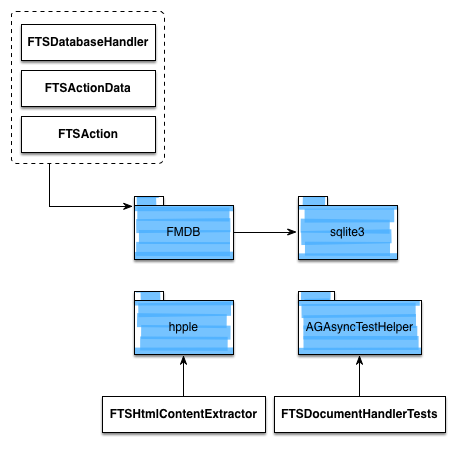
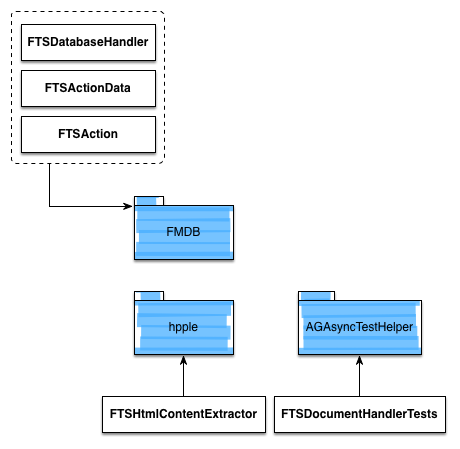
adapt Podfile definition for new CocoaPods Version 0.34.4

Changed region(s): [[0.6087, 0.4365, 0.8826, 0.5924]]

diff --git a/README.md b/README.md
@@ -51,7 +51,6 @@ Now you are ready to run the project.
 1. Copy everything within the FTS folder into your Project (simply every Class with the **FTS** Prefix)
 2. Add Cocoapods Dependencies. Currently:
   - pod 'FMDB', '2.3'
-  - pod 'sqlite3', '3.8.4.3'
   - pod 'hpple', '0.2.0'
 3. Use it as described in the following chapter
 
